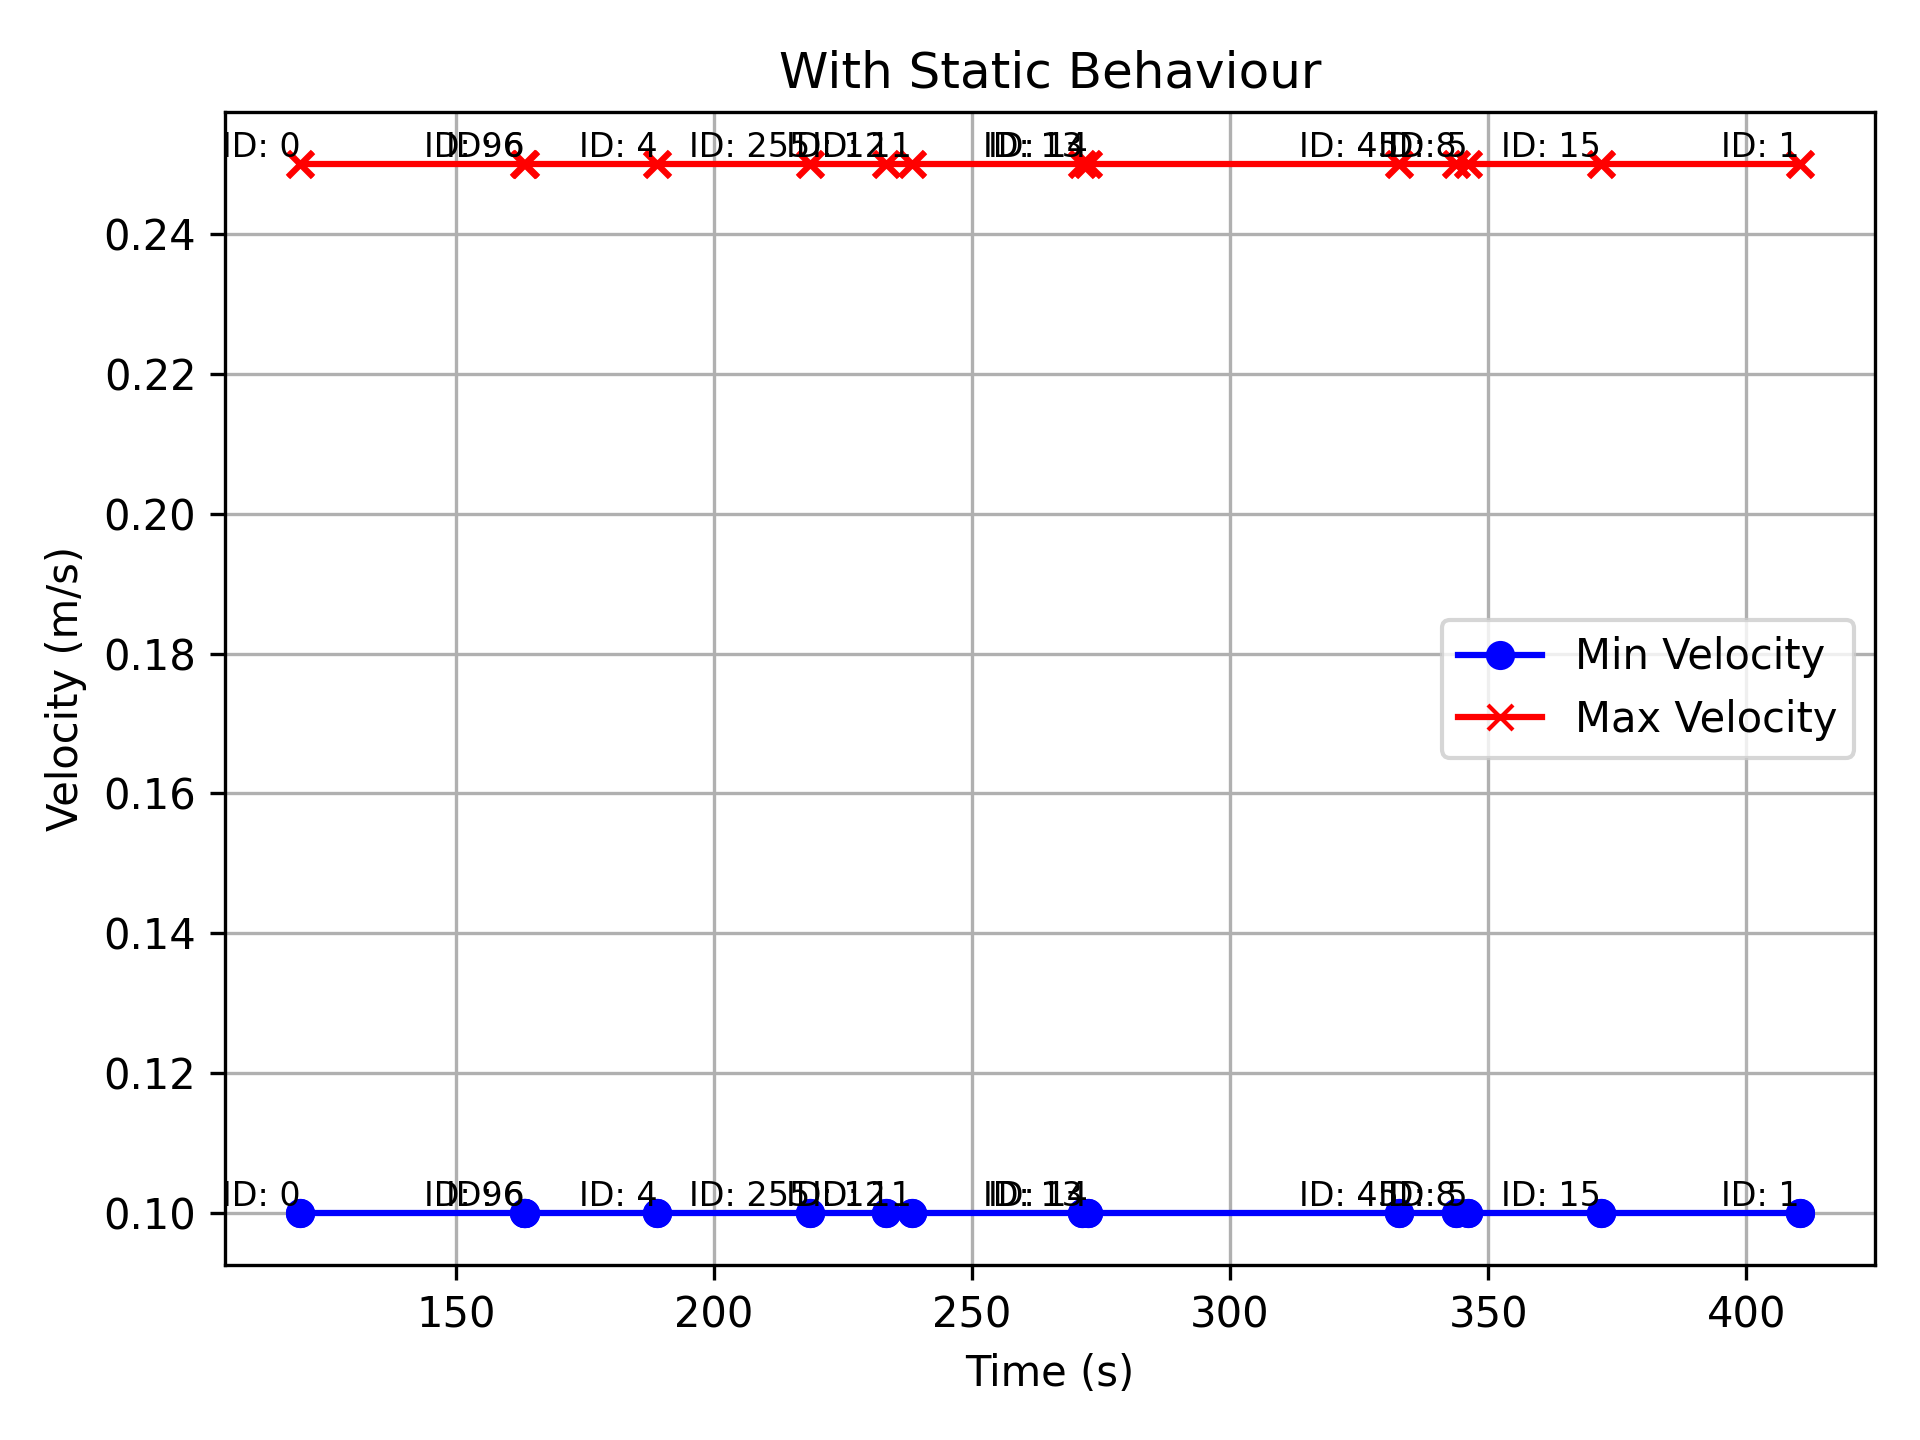
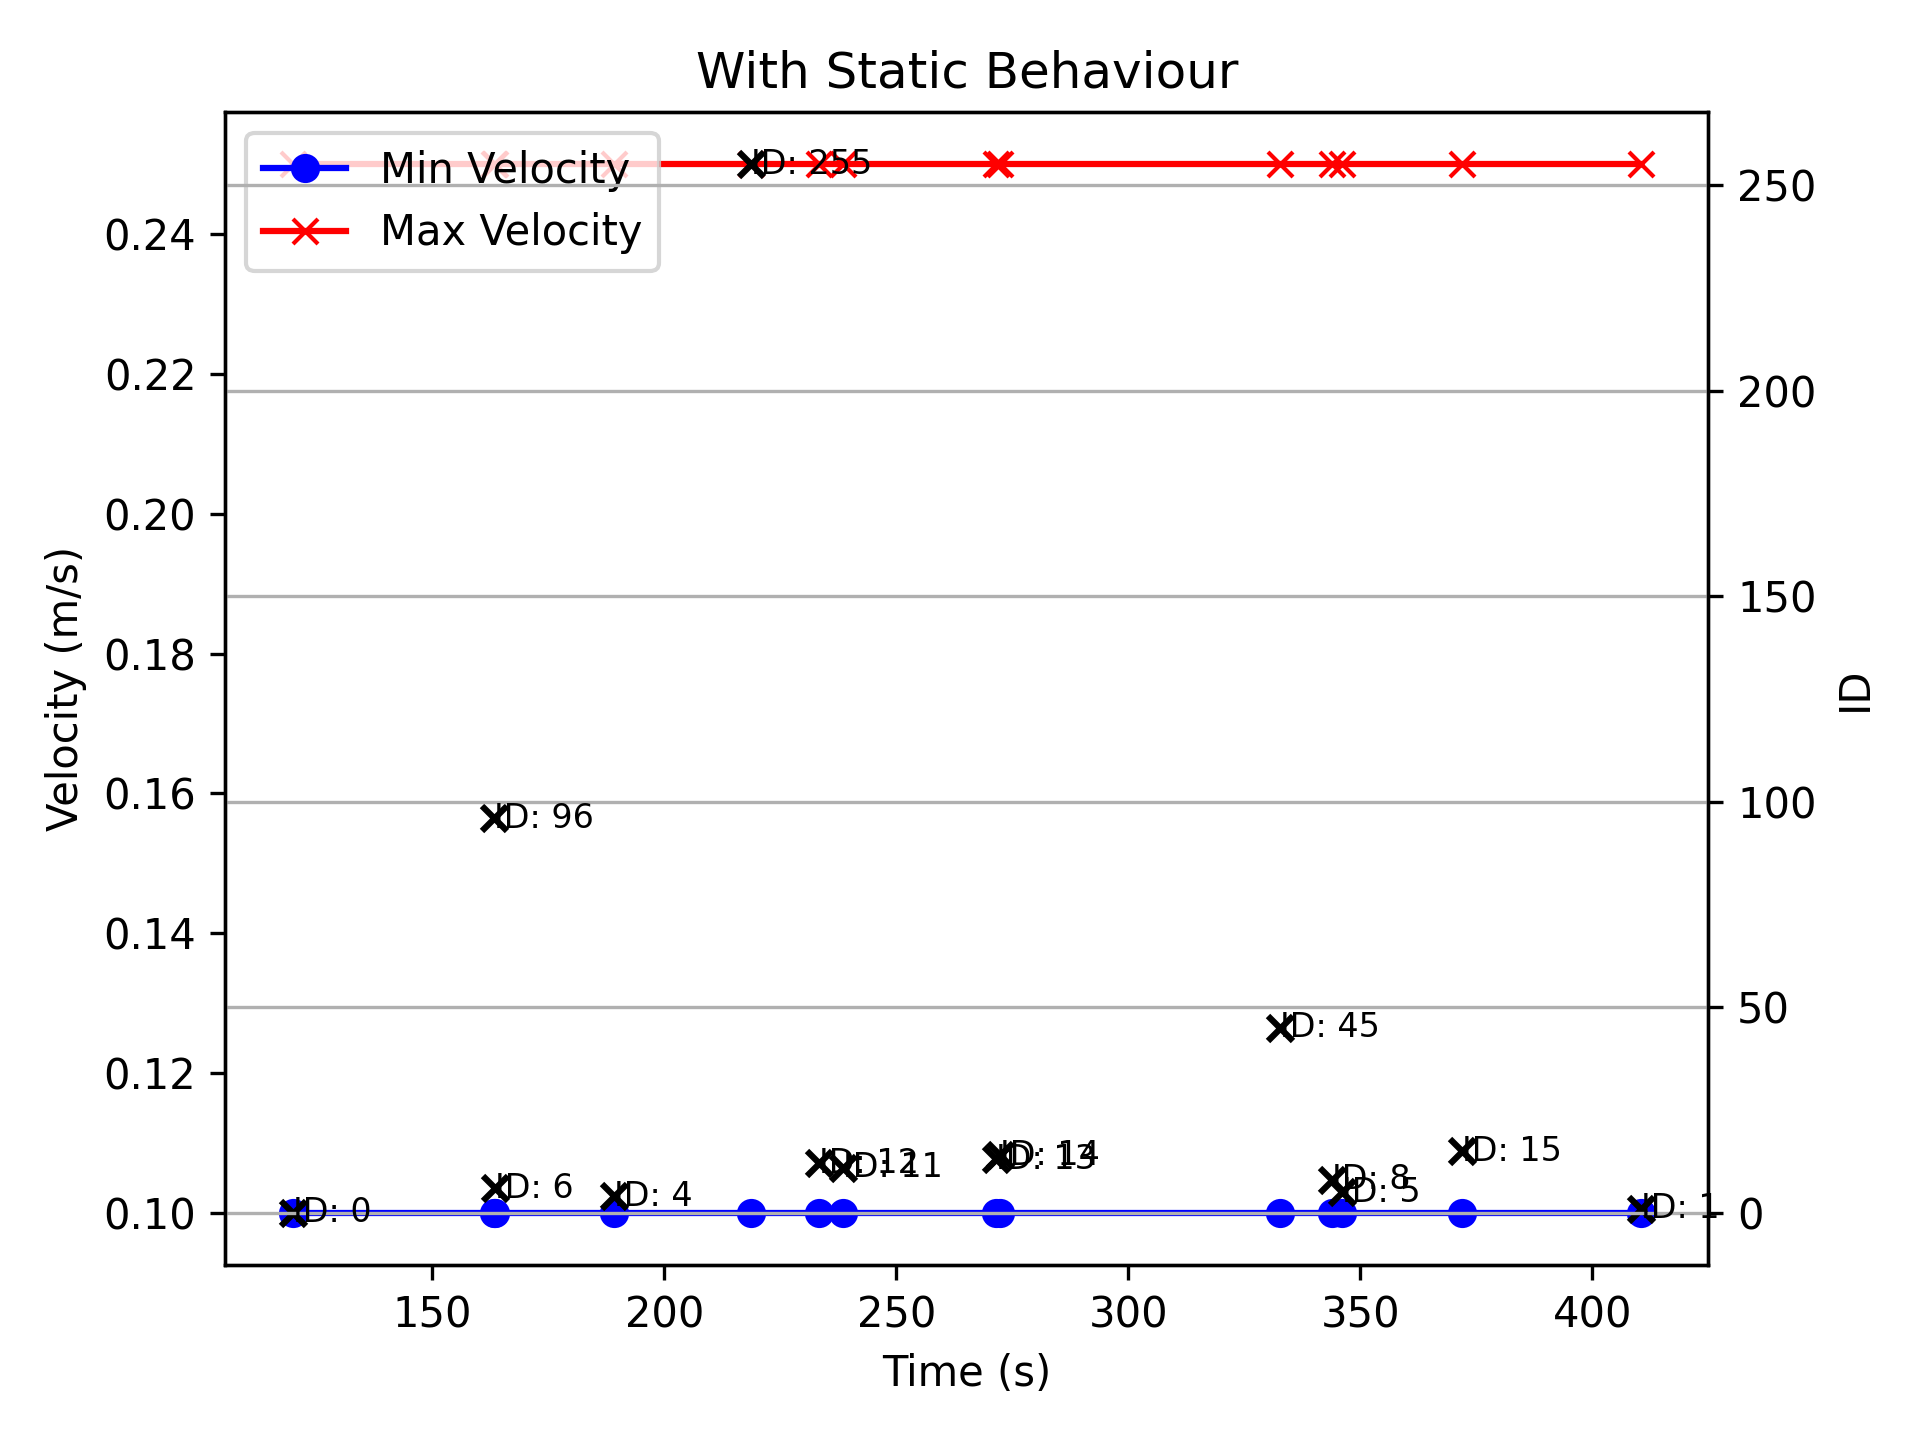
latest results

diff --git a/scripts/grapher3.py b/scripts/grapher3.py
@@ -2,7 +2,7 @@ import pandas as pd
 import matplotlib.pyplot as plt
 
 
-def main():
+def main(file, type):
     # Read the data from the CSV file
     file = 'arlog_20230801202825'
     data = pd.read_csv('../logs/'+ file +'.csv')
@@ -13,26 +13,31 @@ def main():
     max_velocity = data['Max Velocity']
     ids = data['ID']
 
+    # Convert velocities to percentage of max value
+    max_value = max(max_velocity)
+    min_velocity_percent = [(v / max_value) * 100 for v in min_velocity]
+    max_velocity_percent = [(v / max_value) * 100 for v in max_velocity]
+
     # Create the figure and axes objects
     fig, ax1 = plt.subplots()
 
     # Create the line graph for max and min velocities on the left y-axis
-    ax1.plot(time, min_velocity, label='Min Velocity', color='blue', marker='o')
-    ax1.plot(time, max_velocity, label='Max Velocity', color='red', marker='x')
+    ax1.plot(time, min_velocity_percent, label='Min Velocity', color='blue', marker='o')
+    ax1.plot(time, max_velocity_percent, label='Max Velocity', color='red', marker='x')
 
     # Add labeled dots/crosses for each ID on the left y-axis
     for i, id_val in enumerate(ids):
         if i == 0:  # Display ID label only once
-            ax1.text(time[i], min_velocity[i], 'ID: {}'.format(id_val), ha='right', va='bottom', fontsize=8)
-            ax1.text(time[i], max_velocity[i], 'ID: {}'.format(id_val), ha='right', va='bottom', fontsize=8)
+            ax1.text(time[i], min_velocity_percent[i], 'ID: {}'.format(id_val), ha='right', va='bottom', fontsize=8)
+            ax1.text(time[i], max_velocity_percent[i], 'ID: {}'.format(id_val), ha='right', va='bottom', fontsize=8)
         else:
-            ax1.scatter(time[i], min_velocity[i], color='blue', marker='o')
-            ax1.scatter(time[i], max_velocity[i], color='red', marker='x')
+            ax1.scatter(time[i], min_velocity_percent[i], color='blue', marker='o')
+            ax1.scatter(time[i], max_velocity_percent[i], color='red', marker='x')
 
     # Set axis labels and title for left y-axis
     ax1.set_xlabel('Time (s)')
-    ax1.set_ylabel('Velocity (m/s)')
-    ax1.set_title('With Plastic Behaviour')
+    ax1.set_ylabel('Velocity (% of Max)')
+    ax1.set_title('With '+ type +' Behaviour')
 
     # Add legend for left y-axis
     ax1.legend(loc='upper left')
@@ -50,18 +55,19 @@ def main():
 
     # Set labels for the left side of the y-axis
     ax1.yaxis.set_label_position("left")
-    ax1.set_ylabel("Velocity (m/s)", fontsize=10)
+    ax1.set_ylabel("Velocity (% of Max)", fontsize=10)
 
     # Show the plot
     plt.grid(True)
     plt.tight_layout()
 
     # Save the plot as a PNG file
-    plt.savefig('../graphs/'+ file +'2.png', dpi=300)  # dpi parameter controls the resolution of the image
+    plt.savefig('../graphs/'+ file +'3.png', dpi=300)  # dpi parameter controls the resolution of the image
 
     # Show the plot
     plt.show()
 
 
 if __name__ == '__main__':
-    main()
+    main('arlog_20230801202825', 'Plastic')
+    main('arlog_20230801201926', 'Static')
